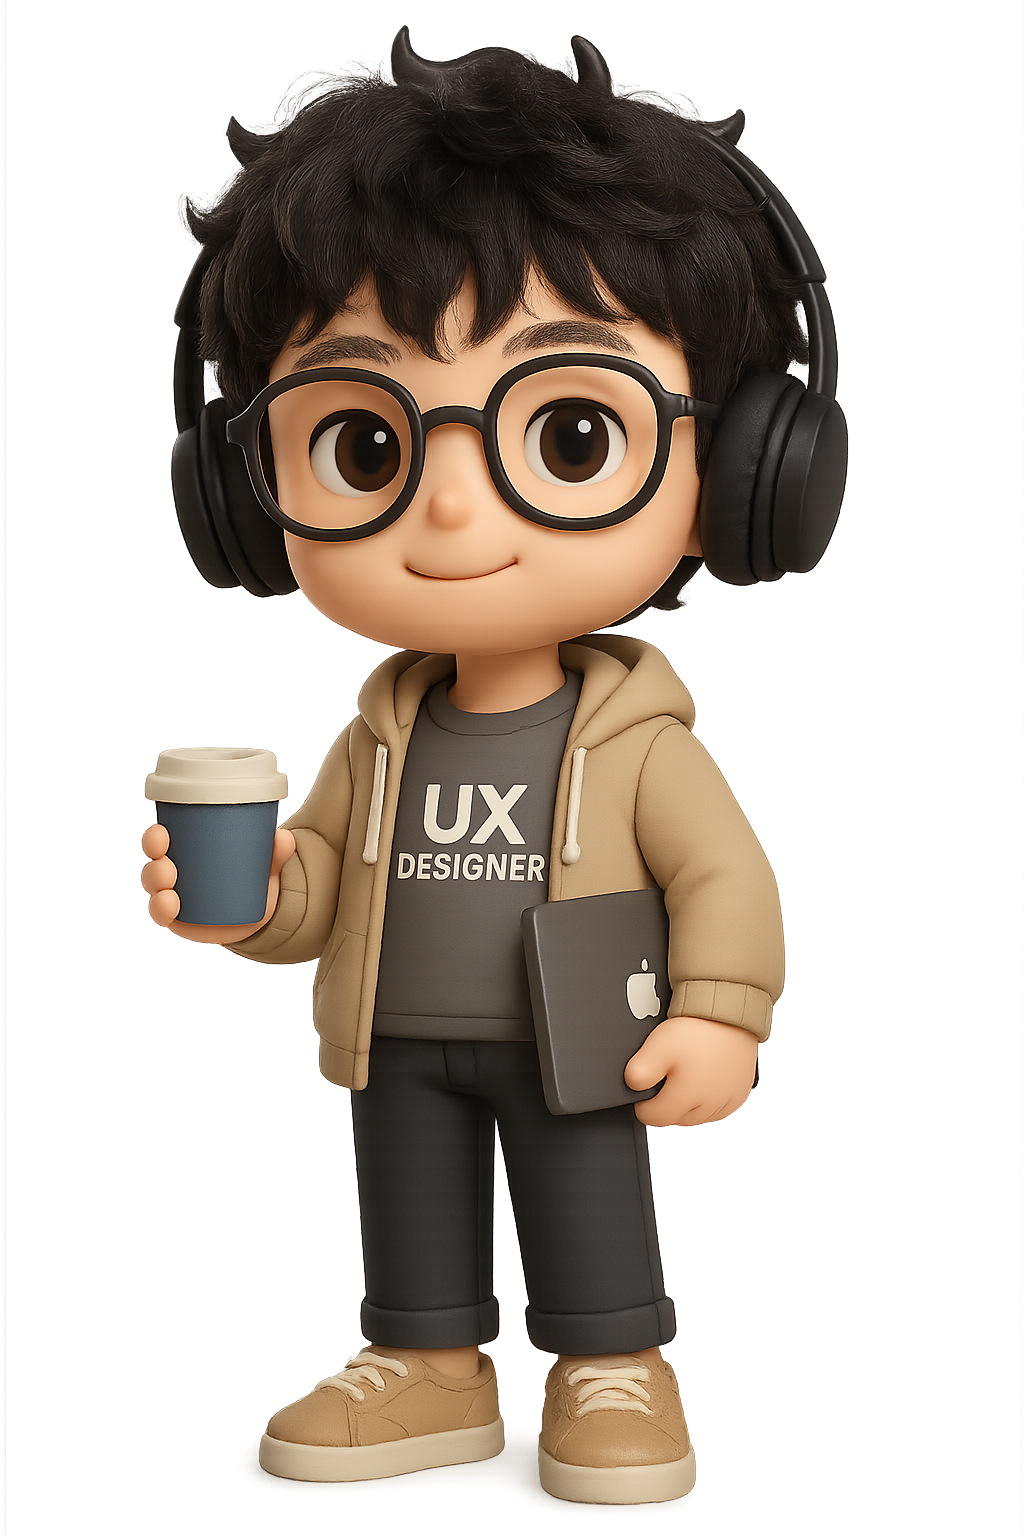
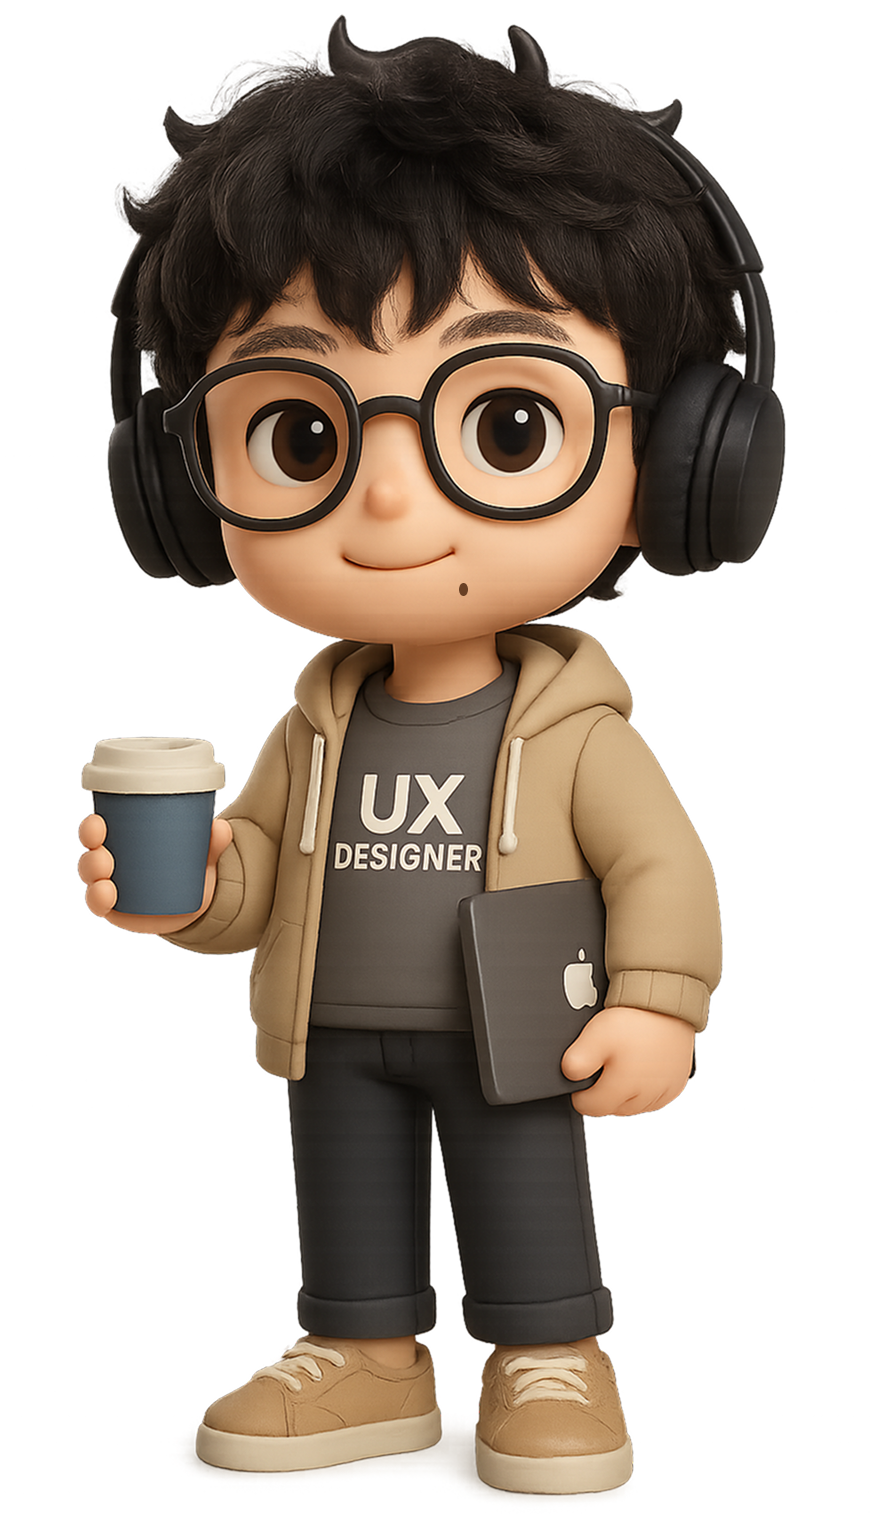
white version

Changed region(s): [[0.093, 0.0, 0.899, 0.9934], [0.434, 0.4346, 0.465, 0.4657], [0.403, 0.3725, 0.434, 0.4036]]

diff --git a/index.html b/index.html
@@ -91,13 +91,16 @@
 
 
 <!-- this is the video background section-->
-<section class="jumbotron my-middle">
+<section class="jumbotron my-middle bg-light">
 	<div class="vid-overlay"></div>
 	<div id="background-video">
-		<video loop muted autoplay playsinline class="my-bg-vid" id="bg-vid">
+<!-- 		<video loop muted autoplay playsinline class="my-bg-vid" id="bg-vid">
 			<source src="video/art.mp4" type="video/mp4">
-		</video>
+		</video> -->
 	</div>
+
+
+
 <!-- 	<div id="intro" class="container my-middle3">
 		<div class="col-12 text-white"><h1>WEI TANG</h1><h5>Research - Design - Create Experience</h5><h5>Currently Lead Product Designer at InMarket for SaaS Platforms</h5>
 		</div>
@@ -107,24 +110,24 @@
 	</div> -->
 	<div id="intro" class="container">
 		<div class="row">
-			<div class="left-half col-lg-8 col-md-12 col-sm-12 text-white">
-				<h1>WEI TANG</h1>
+			<div class="left-half col-lg-6 col-md-12 col-sm-12 my-middle2">
+				<h1 class="my-margin-t">WEI TANG</h1>
 				<!-- <div class="moveAround"><img src="img/assets/figma_arrow.png"></div> -->
 				<!-- <h5 class="animatable fadeInUp delay1">I drive product success by solving complex problems.</h5> -->
 				<!-- <h5 class="animatable fadeInUp delay1">I drive product success as a designer and businessman.</h5> -->
-				<h5 class="animatable fadeInUp delay1">I drive product success with design skills and a business mind.</h5>
-				<h5 class="animatable fadeInUp delay2">Currently Senior Product Designer with <a href="https://inmarket.com" class="text-white" target="_blank">InMarket</a> for SaaS platforms and mobile apps</h5>
+				<h3 class="animatable fadeInUp delay1">Sr Product Designer</h3>
+				<h5 class="animatable fadeInUp delay2 my-margin-t">Currently driving product success for SaaS platforms and mobile apps with <a href="https://inmarket.com" class="" target="_blank">InMarket</a></h5>
 			</div>
 			<!-- <div class="right-half col-lg-4 col-md-12 col-sm-12">
 				<a class="btn border btn-icon text-white my-margin-tb" href="#projects"><i class="fa-solid fa-chevron-down"></i></a>
 			</div> -->
-			<div class="right-half col-lg-4 col-md-12 col-sm-12">
-				<a class="btn btn-icon text-white my-margin-tb" id="home-icon" href="#projects"><i class="fa-light fa-chevrons-down fadeDown delay4"></i></a>
+			<div class="right-half col-lg-6 col-md-12 col-sm-12">
+				<img src="img/IndexFigure.png" class="home-img" alt="image">
 			</div>
+<!-- 			<div class="right-half col-lg-4 col-md-12 col-sm-12">
+				<a class="btn btn-icon text-white my-margin-tb" id="home-icon" href="#projects"><i class="fa-light fa-chevrons-down fadeDown delay4"></i></a>
+			</div> -->
 		</div>
-	</div>
-	<div class="text-white container-footer">
-		<p>&copy 2023 Wei Tang | Created with <i class="fa-solid fa-mug-hot"></i><i class="fa-solid fa-croissant"></i><i class="fa-solid fa-pizza-slice i-text"></i>.</p>
 	</div>
 </section>
 
@@ -159,7 +162,7 @@
 <section class="jumbotron bg-light my-middle" id="projects">
 <div id="project-02" class="container animatable fadeInUp">
 	<div class="row">
-		<div class="left-half col-lg-8 col-md-12 col-sm-12 text-white text-center my-middle2"><img src="img/geolink-async/hero3.png" class="home-img" alt="image">
+		<div class="left-half col-lg-8 col-md-12 col-sm-12 text-white text-center my-middle2"><img src="img/geolink-async/hero3.png" class="home-figure" alt="image">
 		</div>
 		<div class="left-half col-lg-4 col-md-12 col-sm-12 my-middle2"><h2>GeoLink Asynchronous Avails</h2><h4>Lead Product Designer</h4>
 			<!-- <p class="my-margin-t"><b><a href="https://inmarket.com/geolink/" class="text-dark" target="_blank">GeoLink</a></b> is InMarket's self-service location-based marketing SaaS platform, providing real-time activation capabilities, highly-localized audiences, attribution and analytics reporting. <span><b>I led the product design effort </b></span>, and tackled one of the biggest pain point for users.</p> -->

diff --git a/style.css b/style.css
@@ -20,9 +20,8 @@ section {
 }
 
 h1 {
-/*	font-size: max(6vw, 90px);*/
  	font-size: max(6vw, 60px);
-	font-weight: 300;	
+	font-weight: 400;	
 }
 
 h2 {
@@ -366,6 +365,12 @@ a.footer-icon:hover {
 .home-img {
 	max-width: 100%;
 	max-height: 100vh;
+	margin-bottom: 40px;
+}
+
+.home-figure {
+	max-width: 100%;
+	max-height: 100%;
 	margin-bottom: 40px;
 }
 
